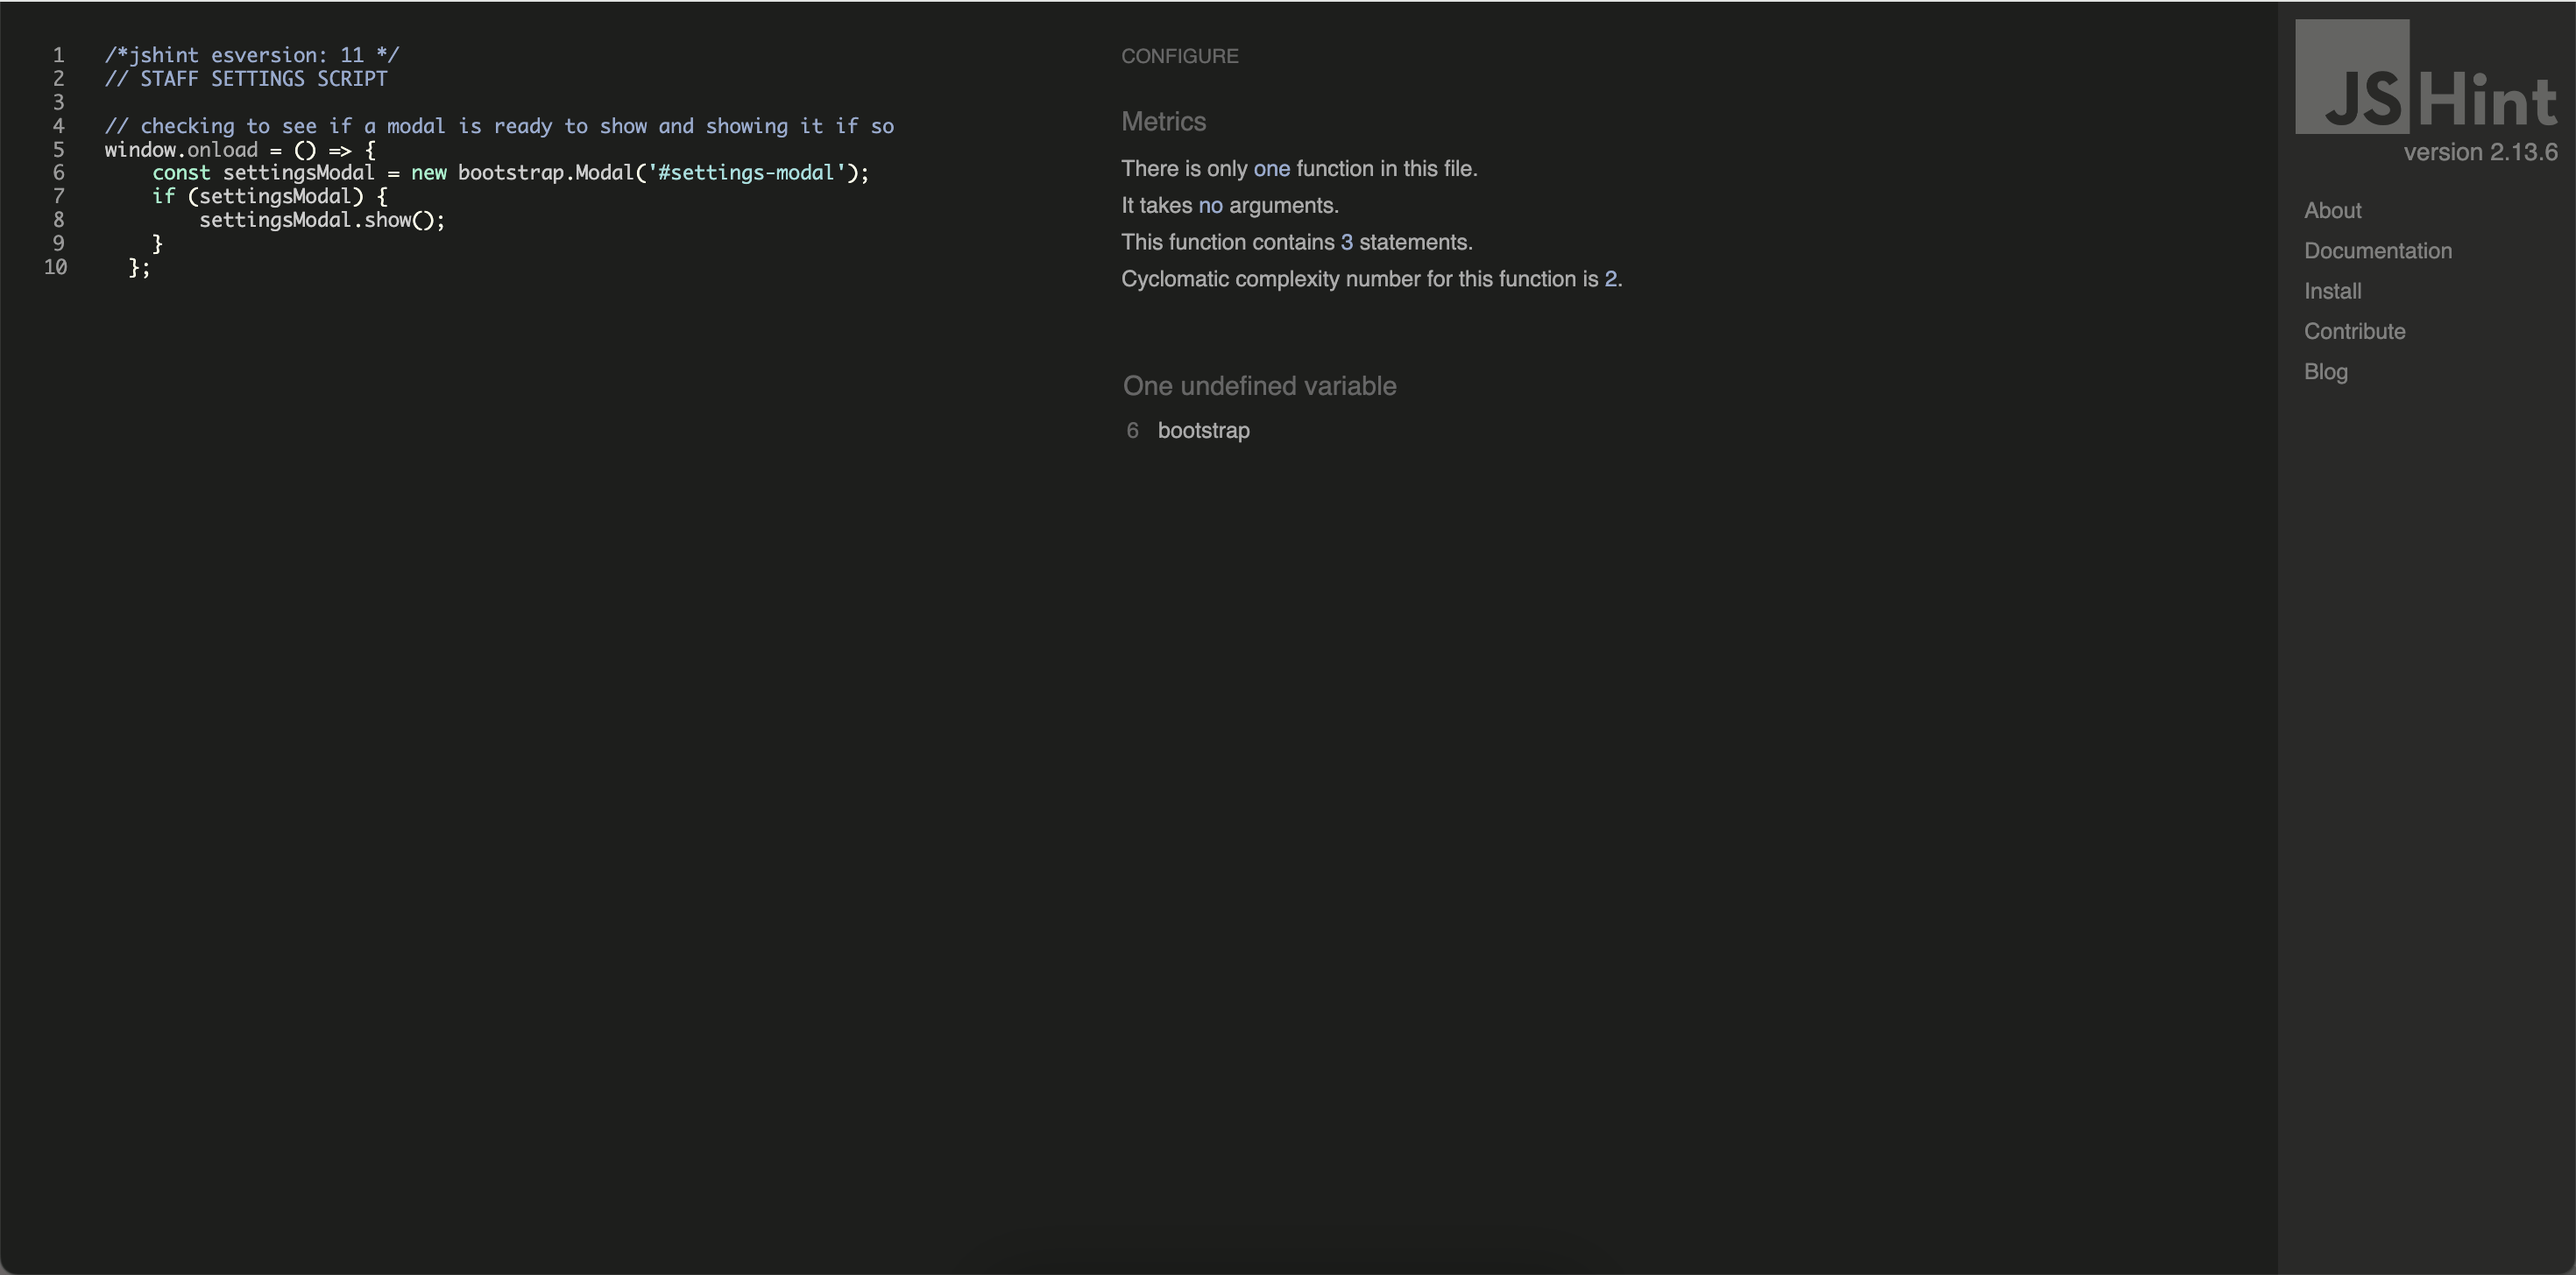
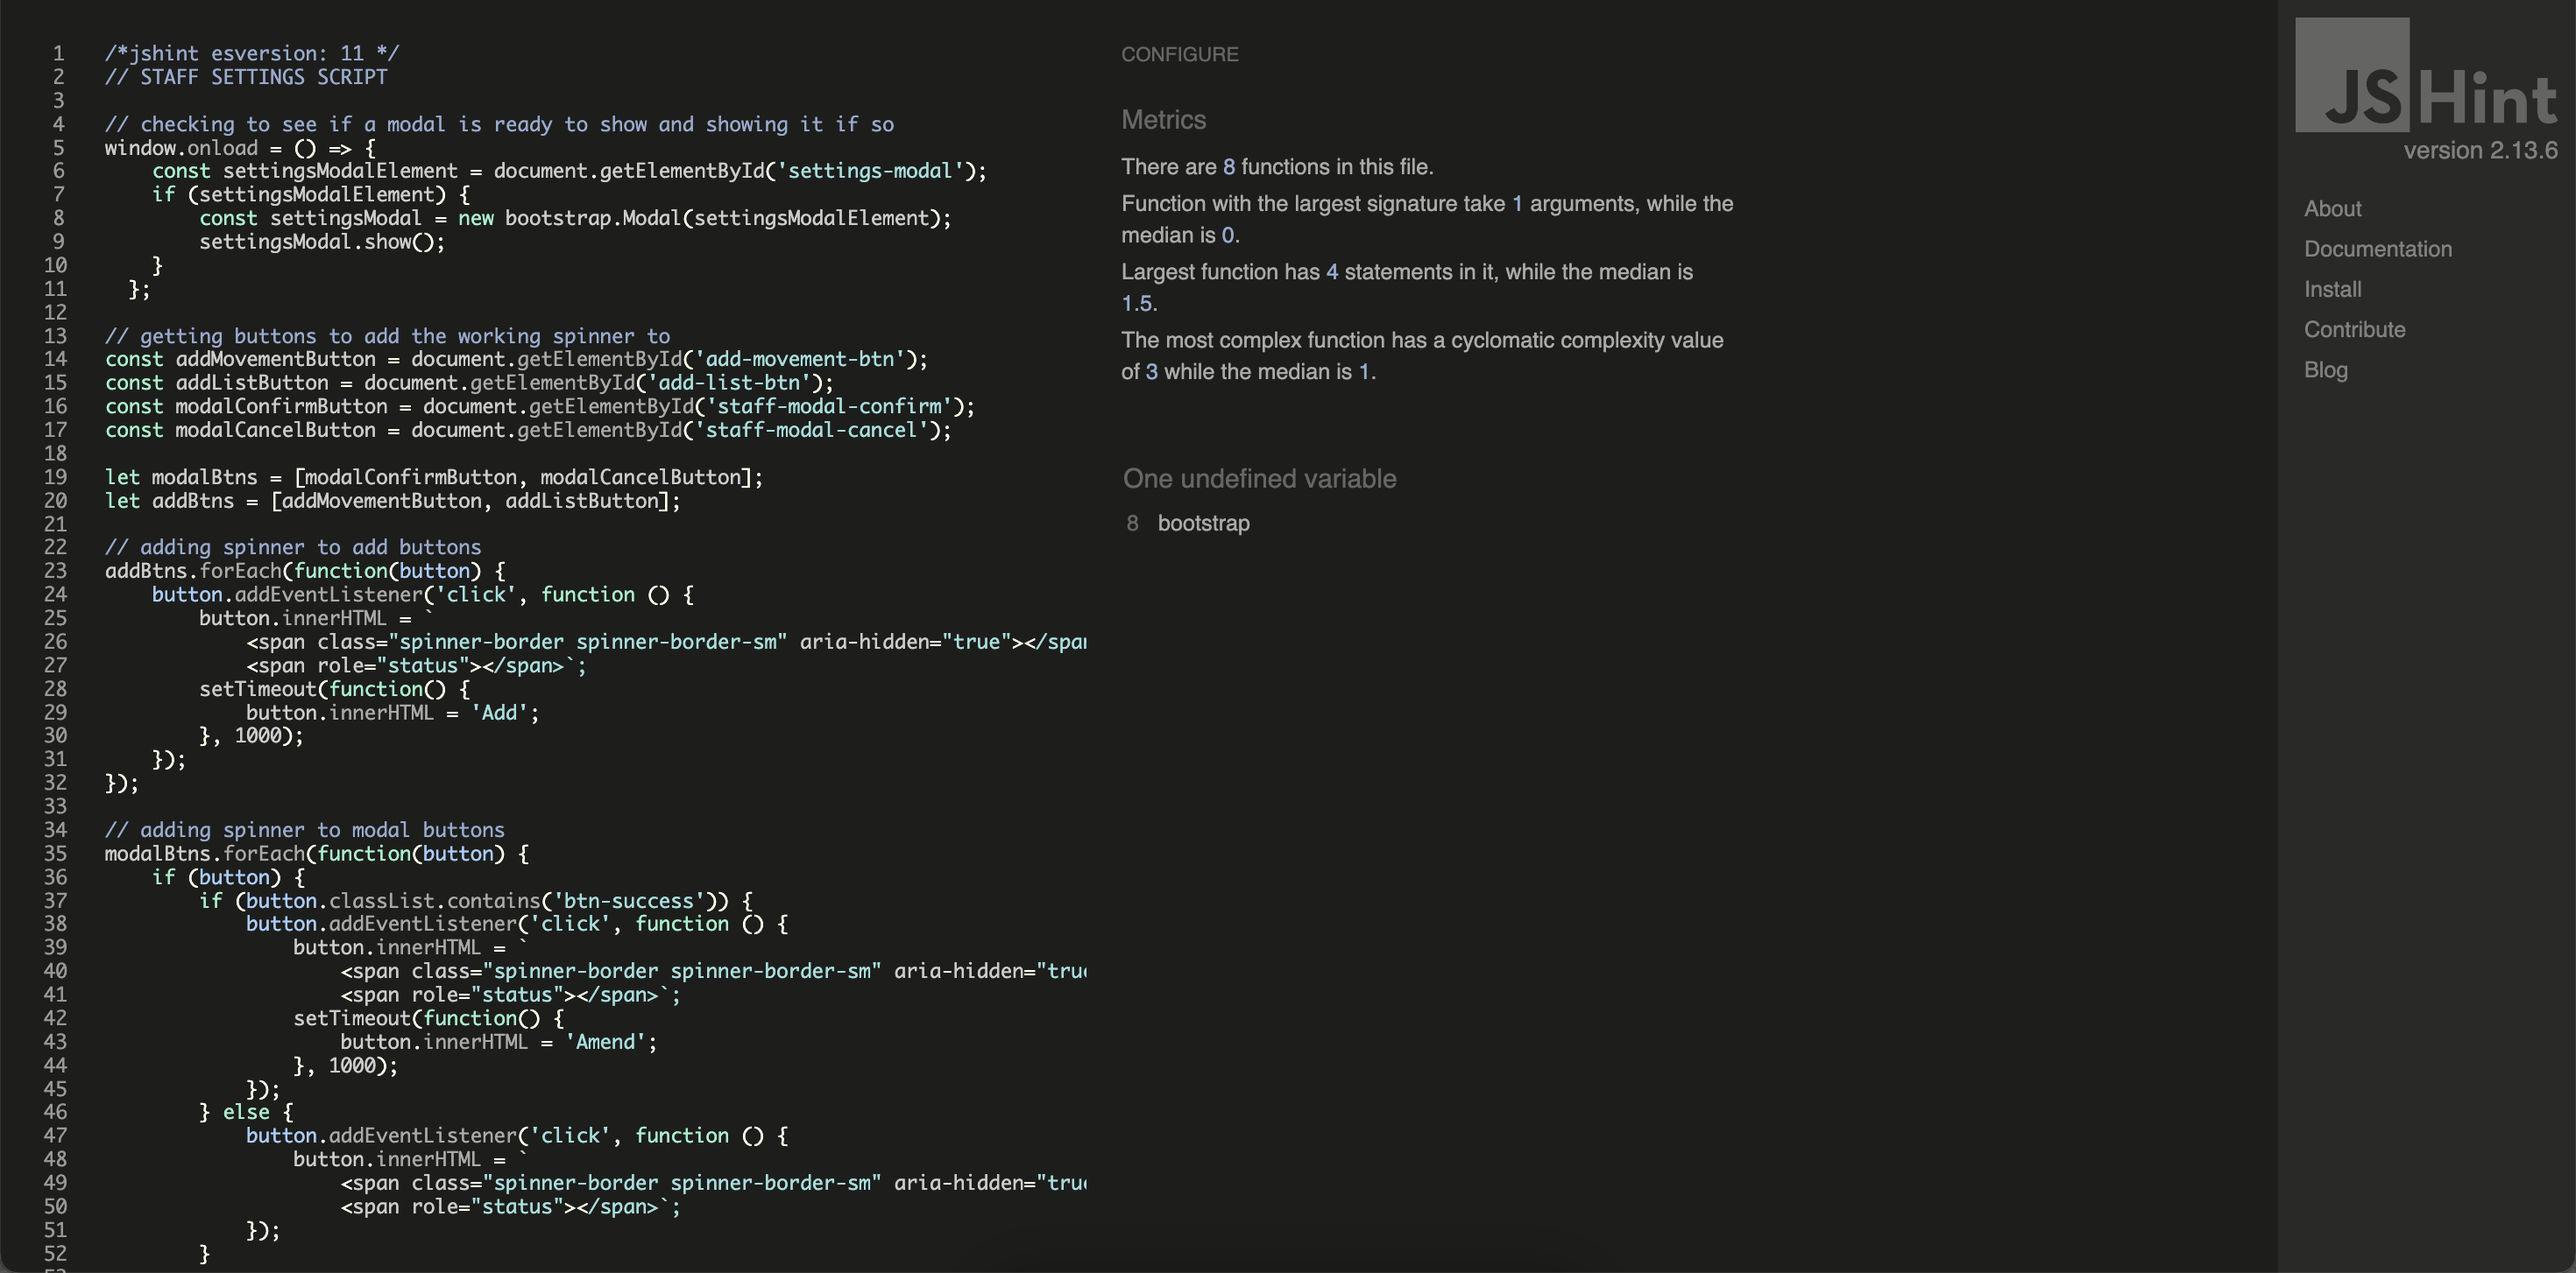
Update validation for staff_settings_script.js

diff --git a/static/script/staff_settings_script.js b/static/script/staff_settings_script.js
@@ -10,6 +10,7 @@ window.onload = () => {
     }
   };
 
+// getting buttons to add the working spinner to
 const addMovementButton = document.getElementById('add-movement-btn');
 const addListButton = document.getElementById('add-list-btn');
 const modalConfirmButton = document.getElementById('staff-modal-confirm');
@@ -18,6 +19,7 @@ const modalCancelButton = document.getElementById('staff-modal-cancel');
 let modalBtns = [modalConfirmButton, modalCancelButton];
 let addBtns = [addMovementButton, addListButton];
 
+// adding spinner to add buttons
 addBtns.forEach(function(button) {
     button.addEventListener('click', function () {
         button.innerHTML = `
@@ -27,8 +29,9 @@ addBtns.forEach(function(button) {
             button.innerHTML = 'Add';
         }, 1000);
     });
-})
+});
 
+// adding spinner to modal buttons
 modalBtns.forEach(function(button) {
     if (button) {
         if (button.classList.contains('btn-success')) {
@@ -49,4 +52,4 @@ modalBtns.forEach(function(button) {
         }
 
     }
-})
+});
